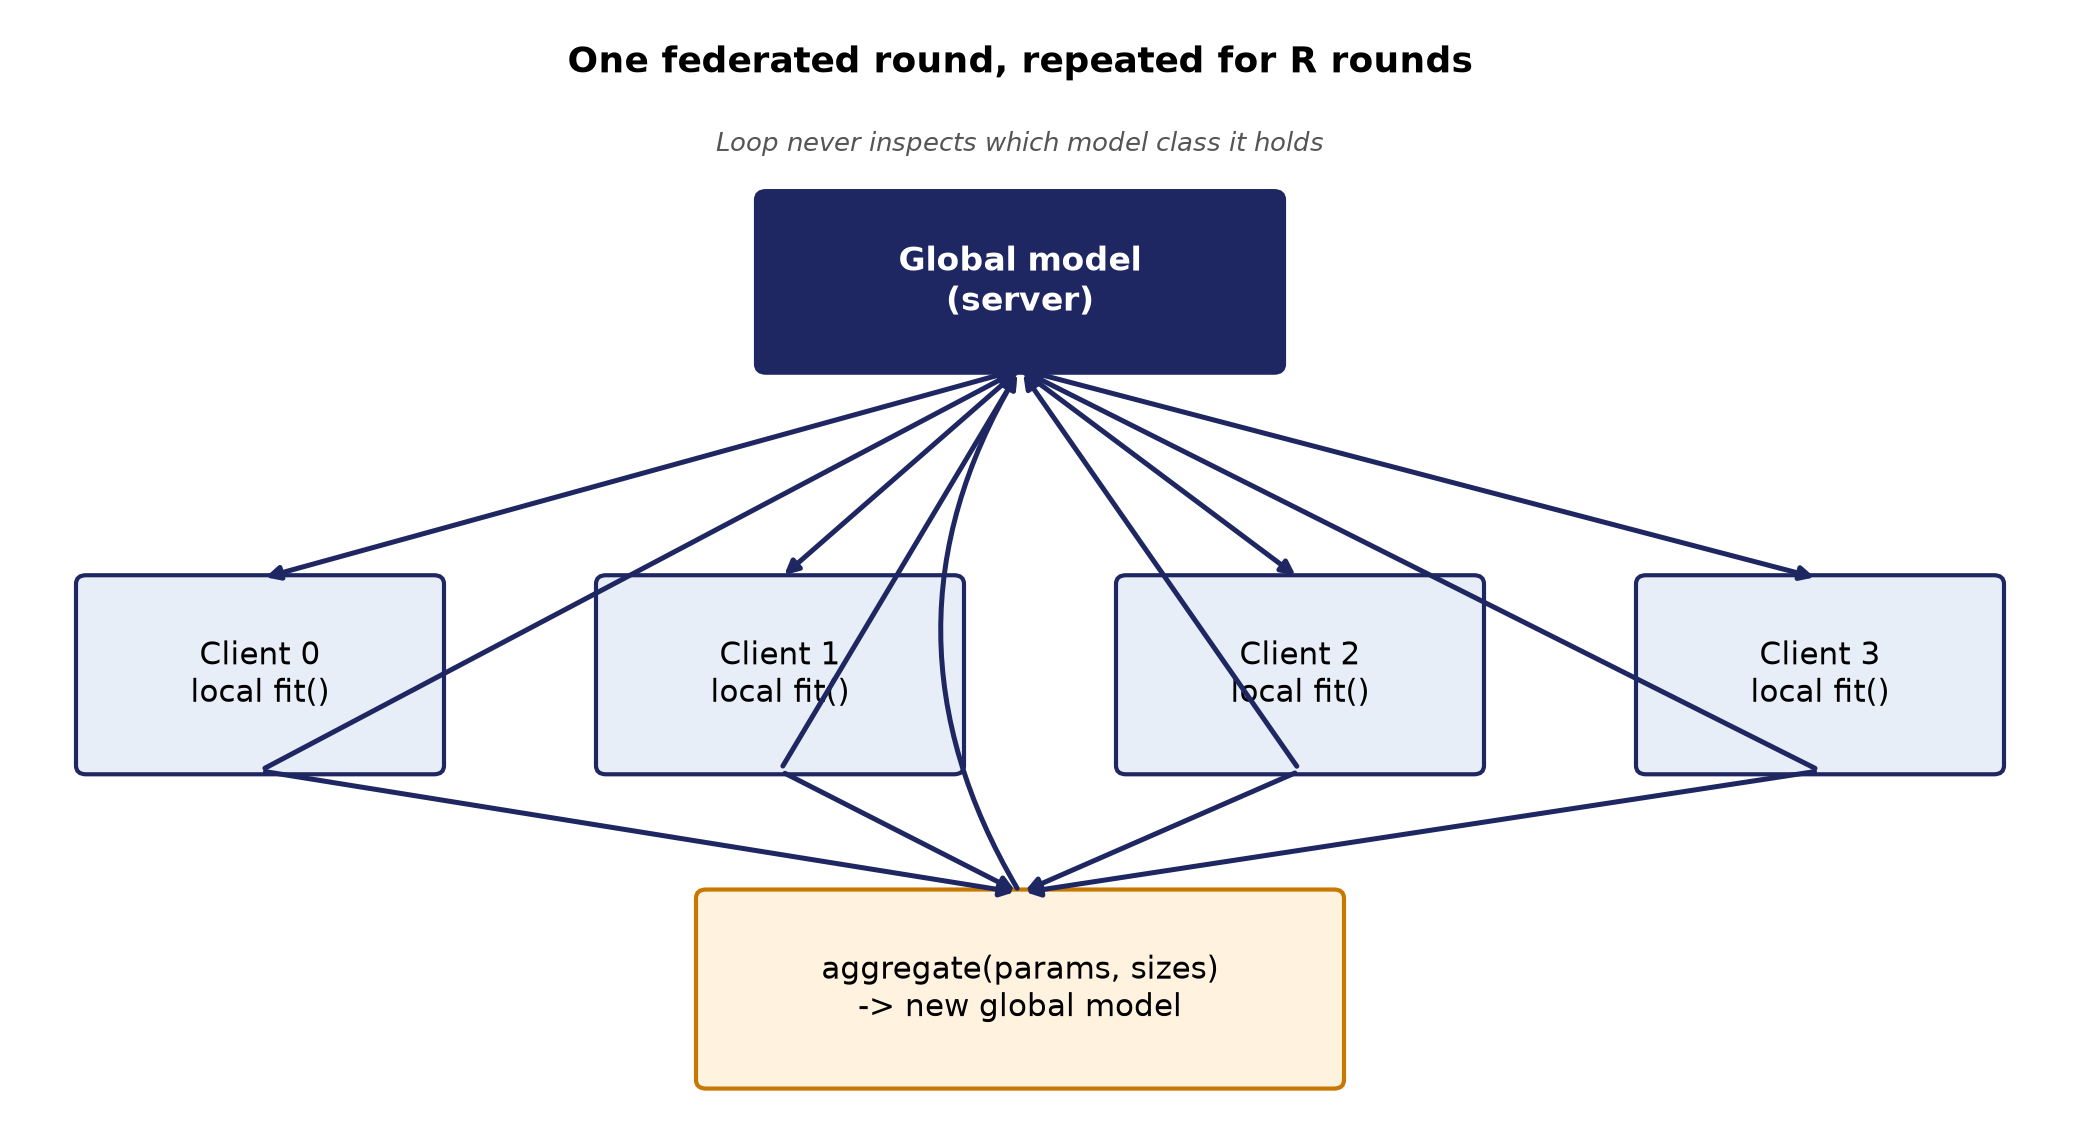
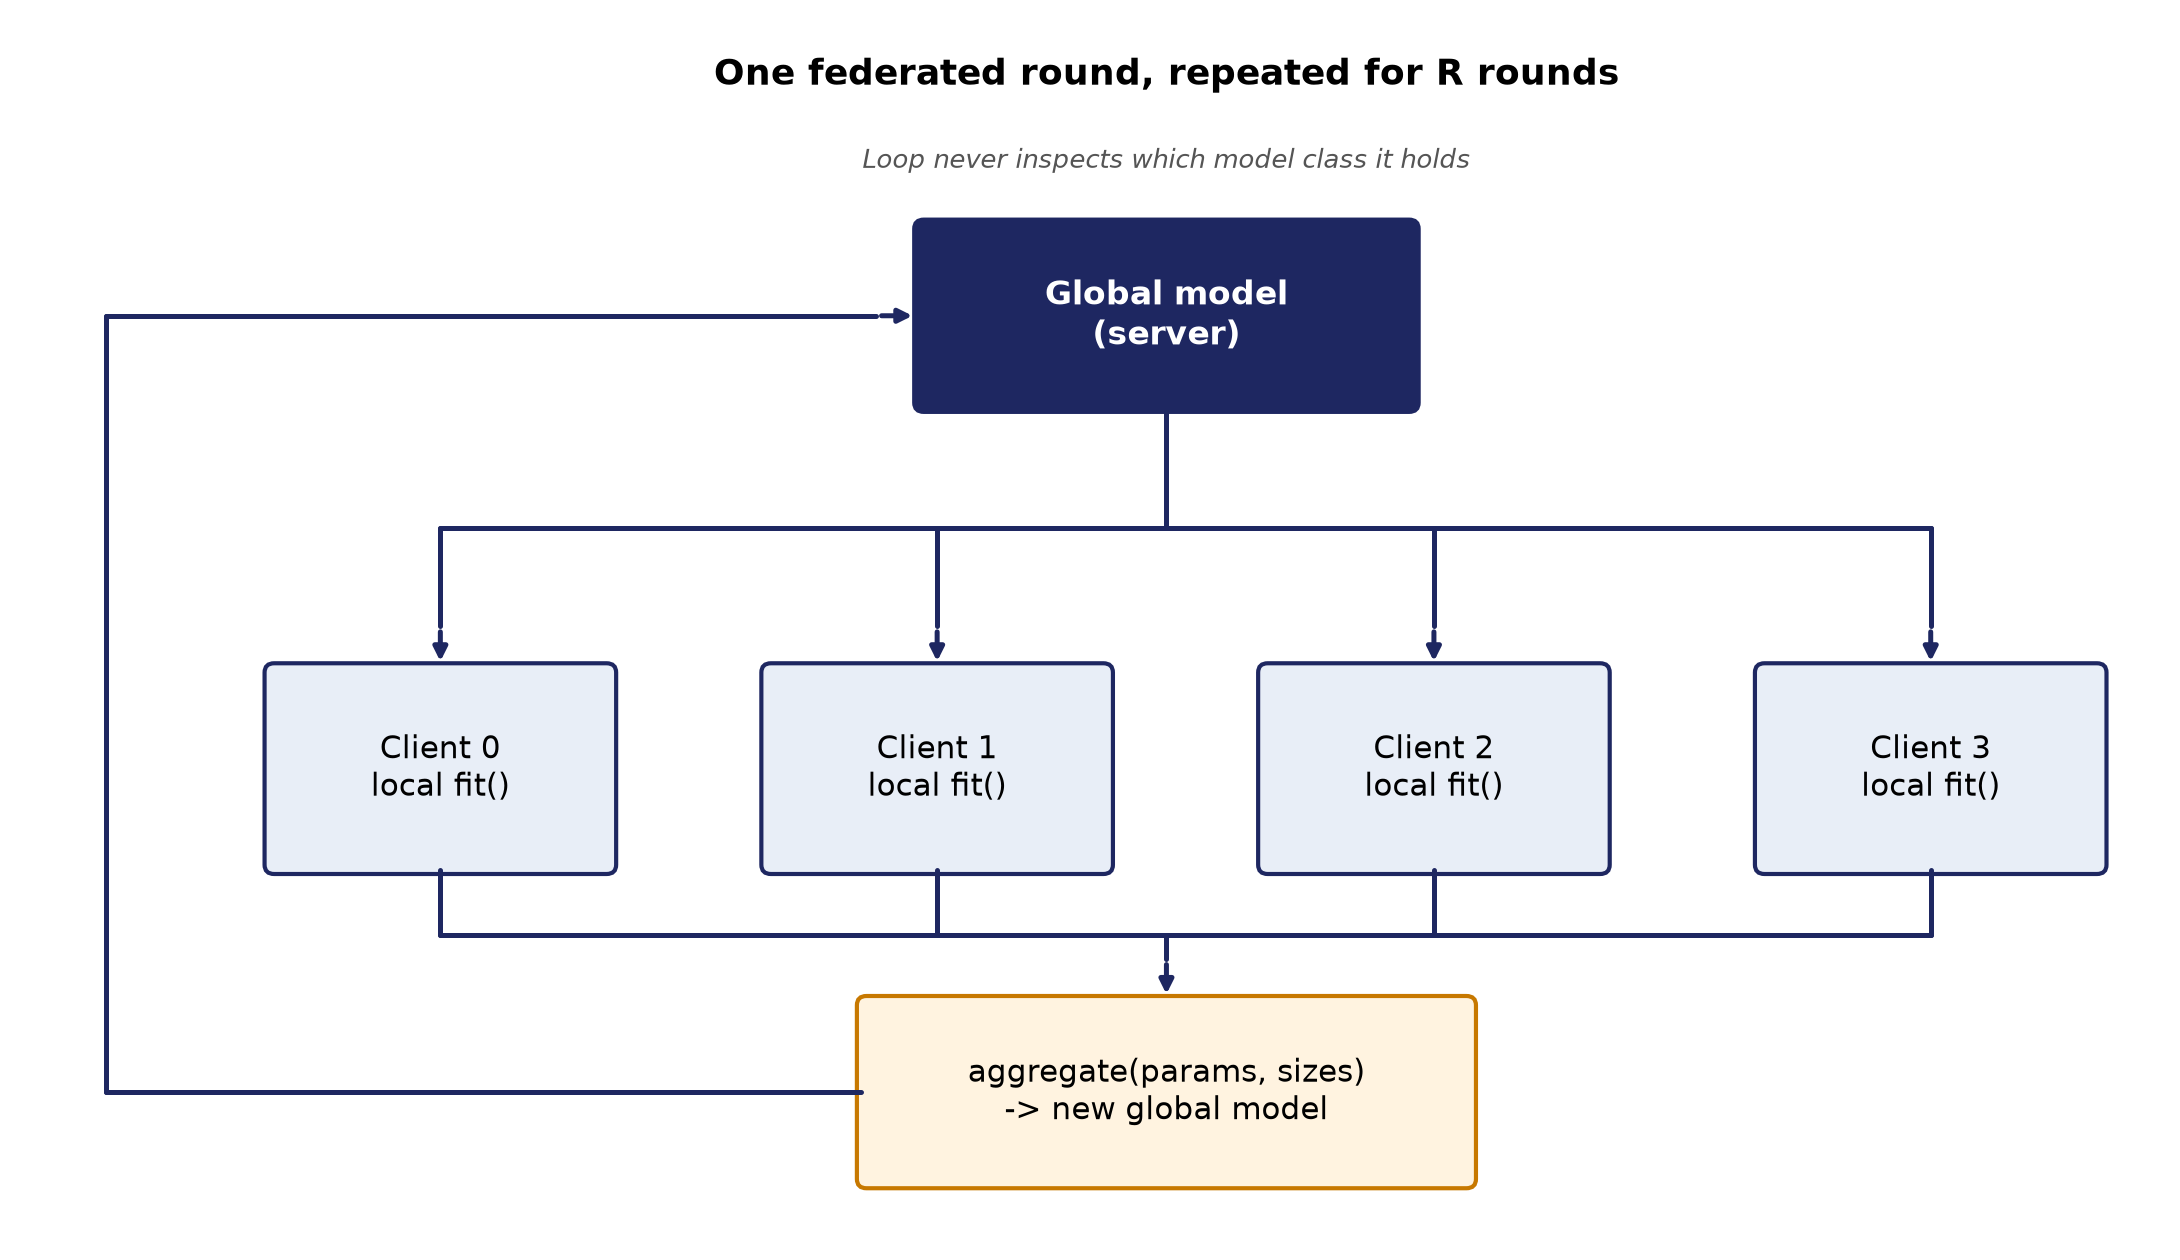
fix: A-006 -- redraw architecture diagram with orthogonal routing, no lines through client boxes

Changed region(s): [[0.0312, 0.1228, 0.9688, 0.9825], [0.25, 0.0307, 0.75, 0.0921]]

diff --git a/scripts/plot_deck_diagrams.py b/scripts/plot_deck_diagrams.py
@@ -26,27 +26,64 @@ def arrow(ax, xy1, xy2, **kw):
 
 
 def federated_loop_diagram():
-    fig, ax = plt.subplots(figsize=(10.5, 5.8))
-    ax.set_xlim(0, 10.2)
-    ax.set_ylim(0, 6.3)
+    # Orthogonal ("bus") routing throughout -- every wire is a sequence of
+    # horizontal/vertical segments aligned with a box's own center, so no
+    # line ever crosses through a neighbouring box. The original version
+    # used straight diagonal lines converging on single center points, which
+    # visibly cut through Client 1 and Client 2's text (found on inspection
+    # after it shipped in the deck) -- this replaces that approach entirely
+    # rather than nudging the same diagonal lines.
+    fig, ax = plt.subplots(figsize=(11, 6.4))
+    ax.set_xlim(-1.0, 10.2)
+    ax.set_ylim(0, 6.6)
     ax.axis("off")
 
-    box(ax, (3.7, 4.3), 2.6, 1.0, "Global model\n(server)", fc="#1E2761", ec="#1E2761", fontsize=12, weight="bold")
+    LINE = dict(color="#1E2761", lw=1.8, solid_capstyle="round")
+    global_cx = 5.0
+    global_top, global_bottom = 5.5, 4.5
+    box(ax, (3.7, global_bottom), 2.6, global_top - global_bottom,
+        "Global model\n(server)", fc="#1E2761", ec="#1E2761", fontsize=12, weight="bold")
     ax.texts[-1].set_color("white")
 
     client_x = [0.3, 2.9, 5.5, 8.1]
+    client_w = 1.8
+    client_top, client_bottom = 3.1, 2.0
+    client_centers = [x + client_w / 2 for x in client_x]
     for i, x in enumerate(client_x):
-        box(ax, (x, 2.0), 1.8, 1.1, f"Client {i}\nlocal fit()", fc="#e8eef7")
-        arrow(ax, (5.0, 4.3), (x + 0.9, 3.1))  # broadcast down
-        arrow(ax, (x + 0.9, 2.0), (5.0, 4.3))  # params up
+        box(ax, (x, client_bottom), client_w, client_top - client_bottom,
+            f"Client {i}\nlocal fit()", fc="#e8eef7")
 
-    box(ax, (3.4, 0.2), 3.2, 1.1, "aggregate(params, sizes)\n-> new global model", fc="#fff3e0", ec="#c77800")
-    for x in client_x:
-        arrow(ax, (x + 0.9, 2.0), (5.0, 1.3))
-    arrow(ax, (5.0, 1.3), (5.0, 4.3), connectionstyle="arc3,rad=-0.3")
+    agg_cx = 5.0
+    agg_top, agg_bottom = 1.3, 0.3
+    box(ax, (3.4, agg_bottom), 3.2, agg_top - agg_bottom,
+        "aggregate(params, sizes)\n-> new global model", fc="#fff3e0", ec="#c77800")
 
-    ax.text(5.0, 6.0, "One federated round, repeated for R rounds", ha="center", fontsize=13, weight="bold")
-    ax.text(5.0, 5.55, "Loop never inspects which model class it holds", ha="center", fontsize=9.5, style="italic", color="#555")
+    # Broadcast bus: global -> horizontal bus -> straight down into each client
+    bus1_y = 3.85
+    ax.plot([global_cx, global_cx], [global_bottom, bus1_y], **LINE)
+    ax.plot([client_centers[0], client_centers[-1]], [bus1_y, bus1_y], **LINE)
+    for cx in client_centers:
+        ax.plot([cx, cx], [bus1_y, client_top + 0.22], **LINE)
+        arrow(ax, (cx, client_top + 0.22), (cx, client_top))
+
+    # Upload bus: each client -> straight up into a horizontal bus -> aggregate
+    bus2_y = 1.65
+    ax.plot([client_centers[0], client_centers[-1]], [bus2_y, bus2_y], **LINE)
+    for cx in client_centers:
+        ax.plot([cx, cx], [client_bottom, bus2_y], **LINE)
+    ax.plot([agg_cx, agg_cx], [bus2_y, agg_top + 0.22], **LINE)
+    arrow(ax, (agg_cx, agg_top + 0.22), (agg_cx, agg_top))
+
+    # Round loop-back: routed out to the far left, clear of every box, so it
+    # cannot cross the bus lines or Client 0.
+    loop_x = -0.55
+    ax.plot([3.4, loop_x], [agg_bottom + 0.5, agg_bottom + 0.5], **LINE)
+    ax.plot([loop_x, loop_x], [agg_bottom + 0.5, global_bottom + 0.5], **LINE)
+    ax.plot([loop_x, 3.7 - 0.22], [global_bottom + 0.5, global_bottom + 0.5], **LINE)
+    arrow(ax, (3.7 - 0.22, global_bottom + 0.5), (3.7, global_bottom + 0.5))
+
+    ax.text(5.0, 6.25, "One federated round, repeated for R rounds", ha="center", fontsize=13, weight="bold")
+    ax.text(5.0, 5.8, "Loop never inspects which model class it holds", ha="center", fontsize=9.5, style="italic", color="#555")
 
     fig.tight_layout()
     fig.savefig(os.path.join(OUT_DIR, "deck_architecture_loop.png"), dpi=200, bbox_inches="tight")

diff --git a/docs/decisions.md b/docs/decisions.md
@@ -2558,3 +2558,27 @@ says "Guide: (to be added)") -- flagged to the user rather than invented.
 the user (same handling as the paper draft, which also lives outside the repo).
 
 ---
+
+## A-006 · 2026-08-29 — System architecture diagram redrawn with orthogonal routing (user-reported overlap)
+
+**What:** The deck's "Methodology: System Architecture" figure
+(`scripts/plot_deck_diagrams.py`, A-005) used straight diagonal lines converging on a
+single center point on both the global-model and aggregate boxes. With 4 clients
+spread wider than those boxes, the lines to/from the outer clients (0 and 3) crossed
+visibly through the inner clients' text (Client 1, Client 2) -- not caught during
+A-005's own visual QA, reported by the user afterward.
+
+**Fix:** Redrawn with orthogonal ("bus") routing -- every connection is a sequence of
+horizontal/vertical segments aligned to each box's own center, never a diagonal line
+through another box. Broadcast: global model -> horizontal bus -> straight down into
+each client. Upload: each client -> straight up into a horizontal bus -> aggregate.
+Round loop-back (aggregate -> global) routed out to the far left, clear of every box,
+rather than as a center arc. No information removed -- same five boxes, same four
+arrows' worth of meaning, same caption.
+
+**Regenerated and re-verified:** `results/figs/deck_architecture_loop.png`
+regenerated from the updated script; the deck rebuilt from it and the specific slide
+re-exported and visually re-inspected before redelivering, not assumed fixed from the
+code change alone.
+
+---

diff --git a/docs/decisions_index.md b/docs/decisions_index.md
@@ -102,3 +102,4 @@ prefixes: `P-001` onward for Prithvi, `A-001` onward for Ayuvi. See P-001 in
 | A-003 | 2026-08-22 | Natural-partition alpha via TV distance: 1.5 (CI 1.0-4.7) -- diverges from D-037's informal "~0.5-1.0", not yet reconciled |
 | A-004 | 2026-08-28 | Reconciled paper draft SS II-B/IV.A/VII with the diagnostic-pair framing (P-015); resolved Flags 7-8; tone check |
 | A-005 | 2026-08-28 | Review-2 deck built on VIT template via PowerPoint COM, mapped to all 12 grading criteria; 3 overflow bugs found and fixed |
+| A-006 | 2026-08-29 | System architecture diagram redrawn with orthogonal routing, fixing lines that crossed through client boxes |
